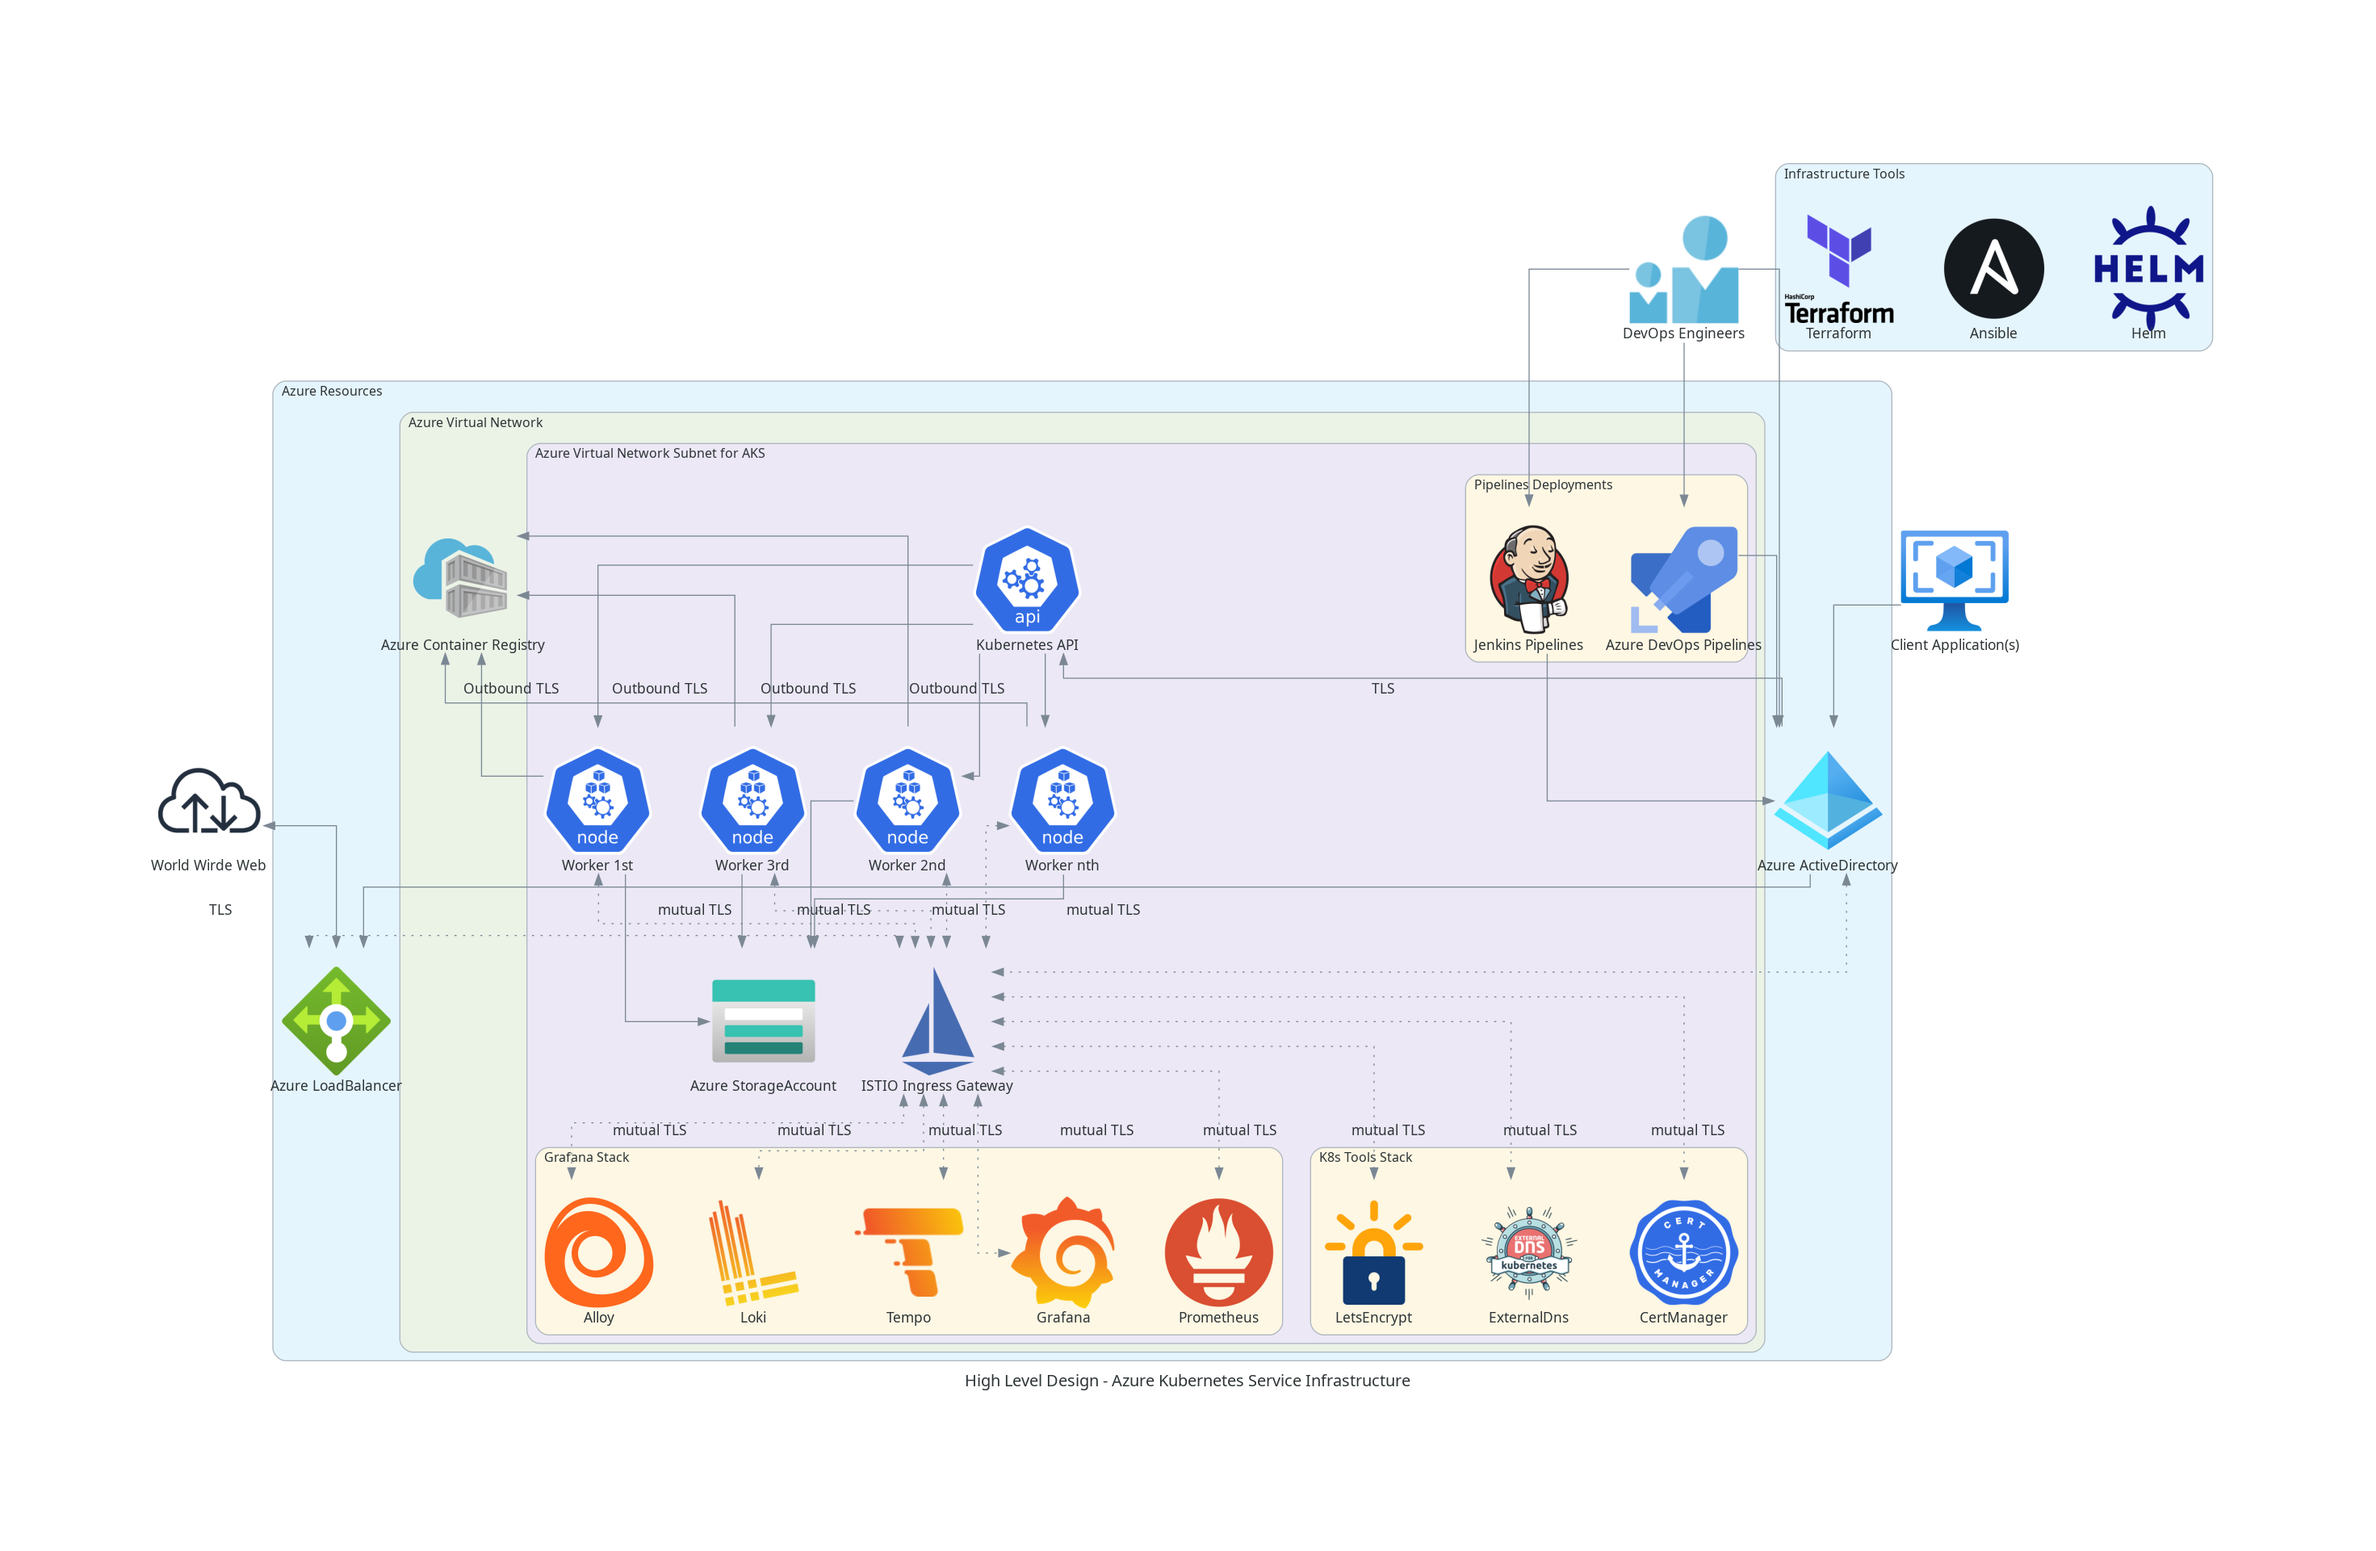
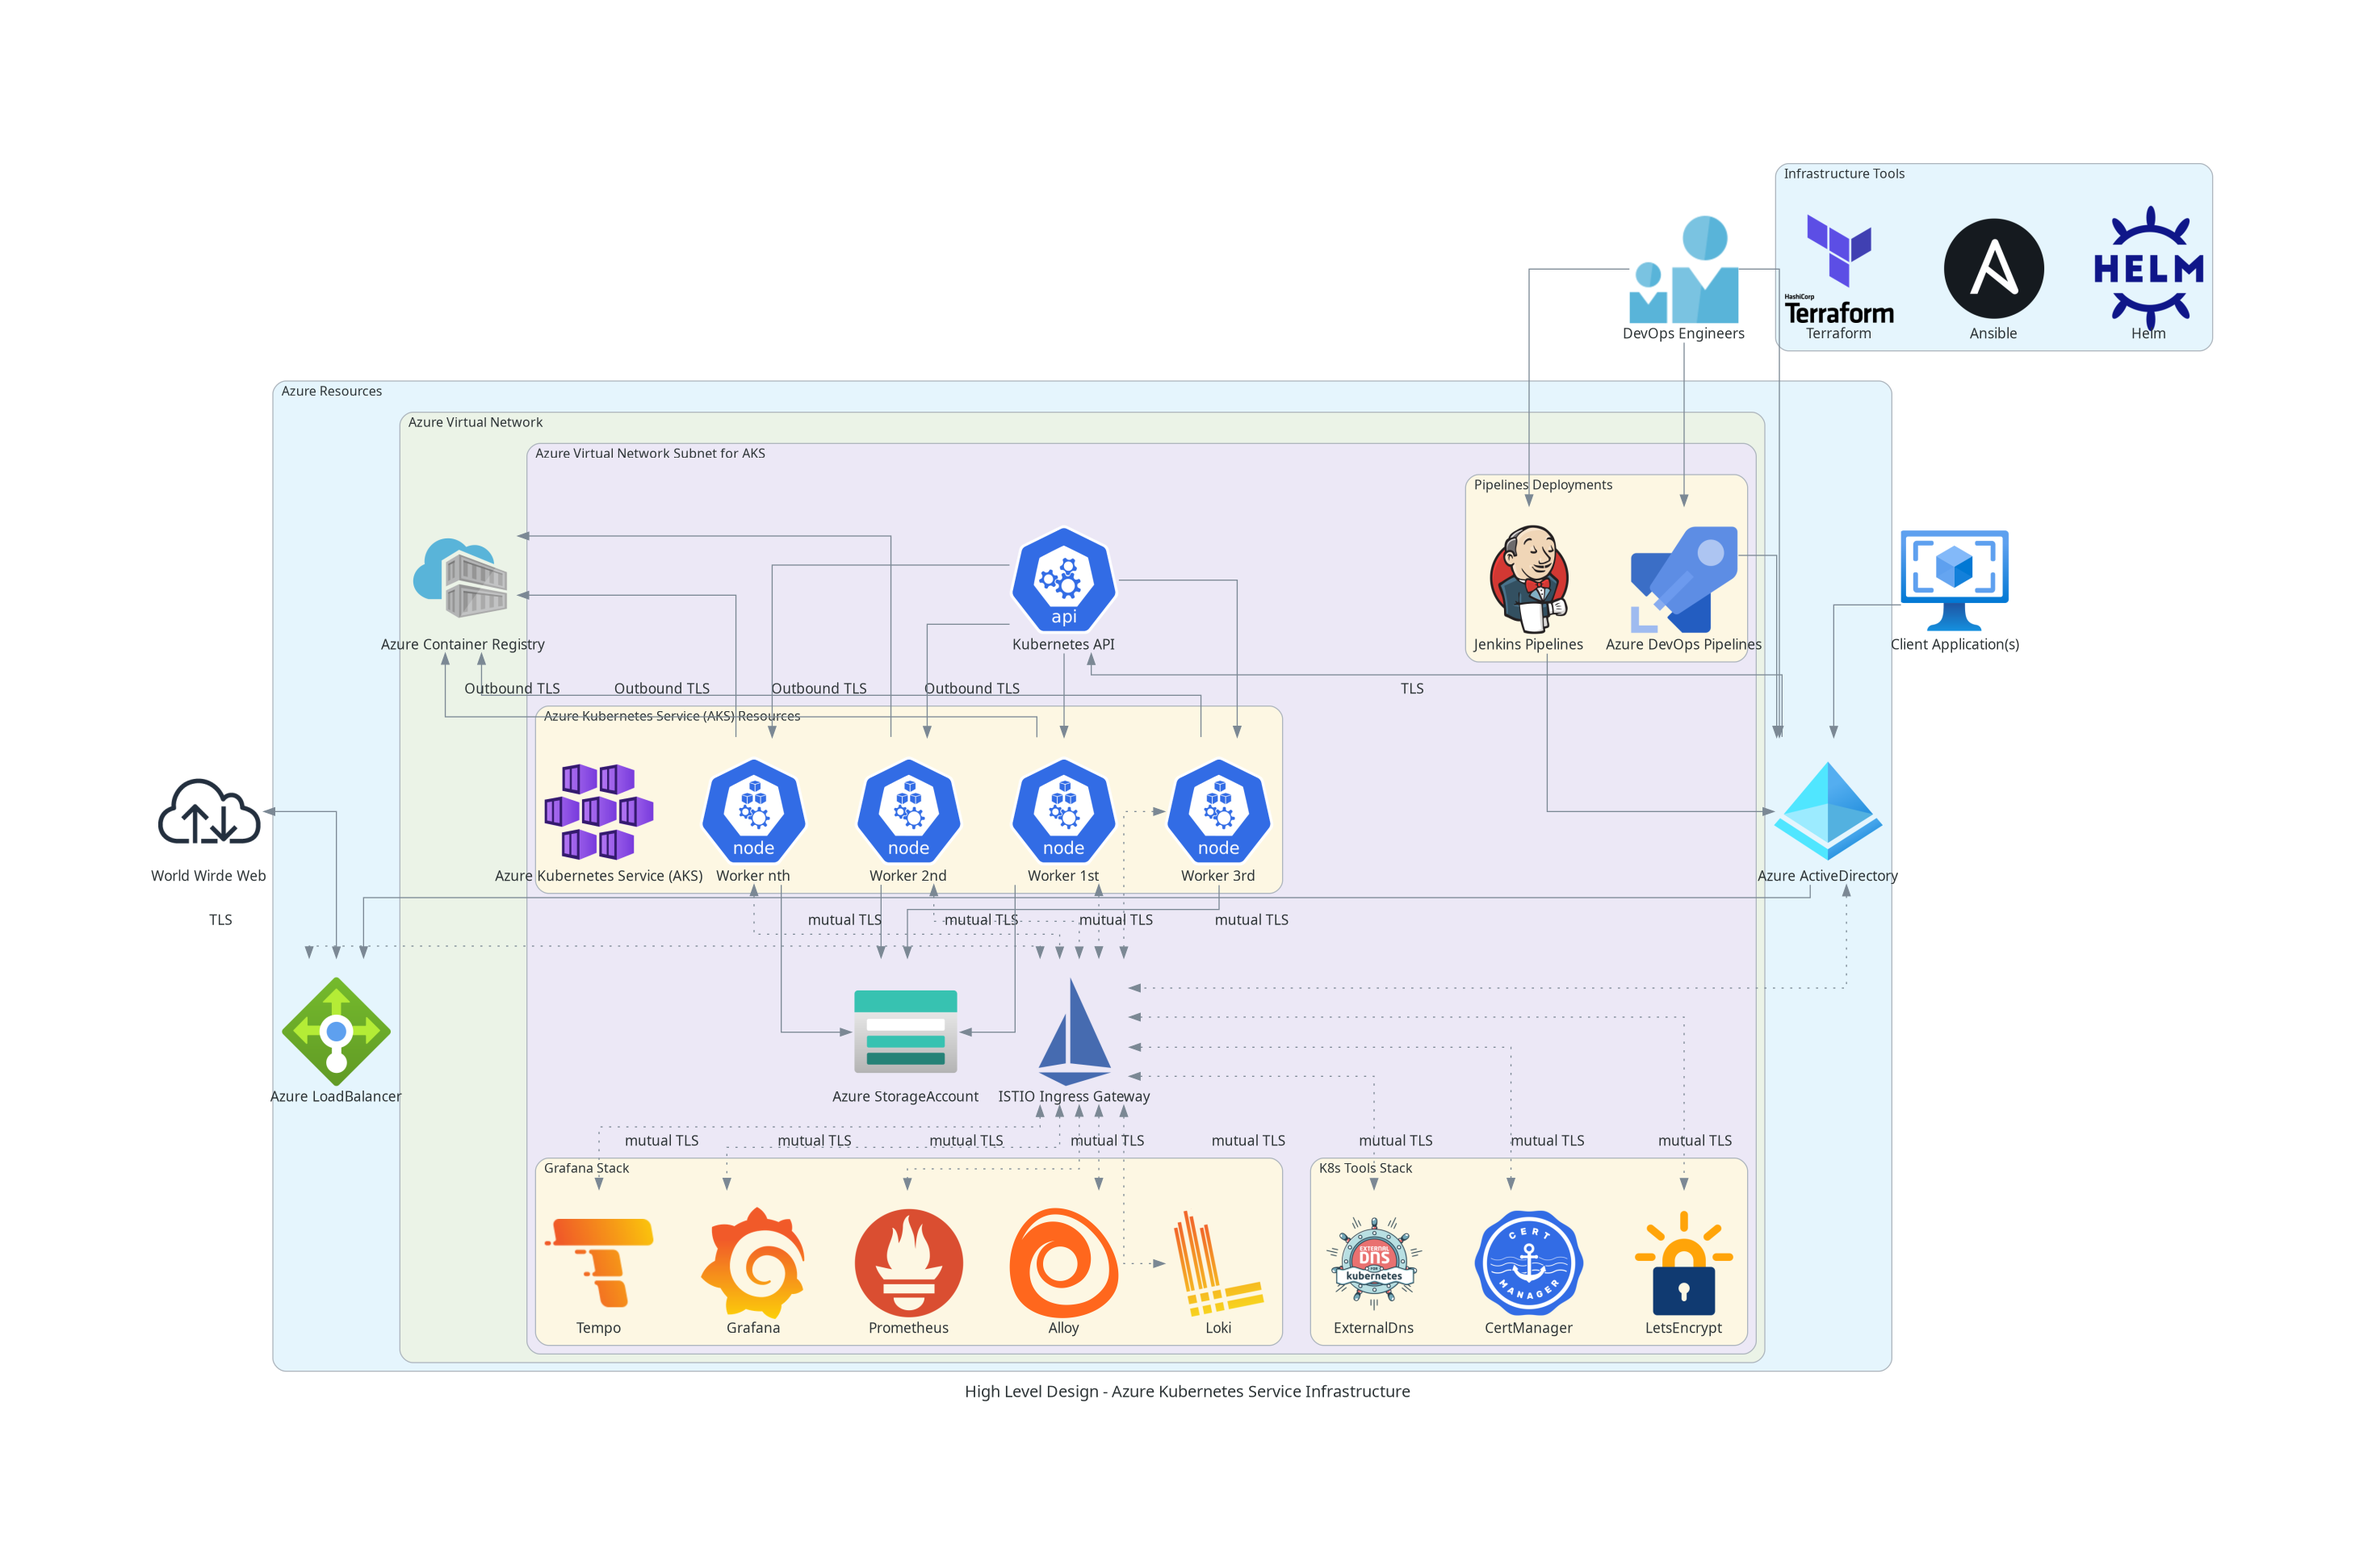
Updating AKS HLD pictures.

diff --git a/IaCaKs/HLD/hldAzureKubernetesService.py b/IaCaKs/HLD/hldAzureKubernetesService.py
@@ -6,17 +6,16 @@ from diagrams.onprem.tracing import Tempo
 from diagrams.k8s.controlplane import API
 from diagrams import Diagram, Cluster, Edge
 from diagrams.azure.devops import Pipelines
-from diagrams.azure.compute import OsImages
 from diagrams.azure.general import Twousericon
 from diagrams.onprem.iac import Terraform, Ansible
 from diagrams.azure.storage import StorageAccounts
 from diagrams.azure.identity import ActiveDirectory
 from diagrams.onprem.network import Internet, Istio
 from diagrams.k8s.ecosystem import ExternalDns, Helm
-from diagrams.azure.compute import ContainerRegistries
 from diagrams.onprem.monitoring import Prometheus, Grafana
 from diagrams.onprem.certificates import CertManager, LetsEncrypt
 from diagrams.azure.network import PublicIpAddresses, LoadBalancers
+from diagrams.azure.compute import ContainerRegistries, KubernetesServices, OsImages
 
 with (((Diagram("High Level Design - Azure Kubernetes Service Infrastructure",
                 show=False,
@@ -41,10 +40,12 @@ with (((Diagram("High Level Design - Azure Kubernetes Service Infrastructure",
             azureContainerRegistry = ContainerRegistries("Azure Container Registry")
 
             with Cluster("Azure Virtual Network Subnet for AKS"):
-                workerNodes = [Node("Worker 3rd"),
-                               Node("Worker 2nd"),
-                               Node("Worker 1st"),
-                               Node("Worker nth")]
+                with Cluster("Azure Kubernetes Service (AKS) Resources"):
+                    aks = KubernetesServices("Azure Kubernetes Service (AKS)")
+                    workerNodes = [Node("Worker 3rd"),
+                                   Node("Worker 2nd"),
+                                   Node("Worker 1st"),
+                                   Node("Worker nth")]
 
                 with Cluster("K8s Tools Stack"):
                     necessaryTools = [LetsEncrypt("LetsEncrypt"),
